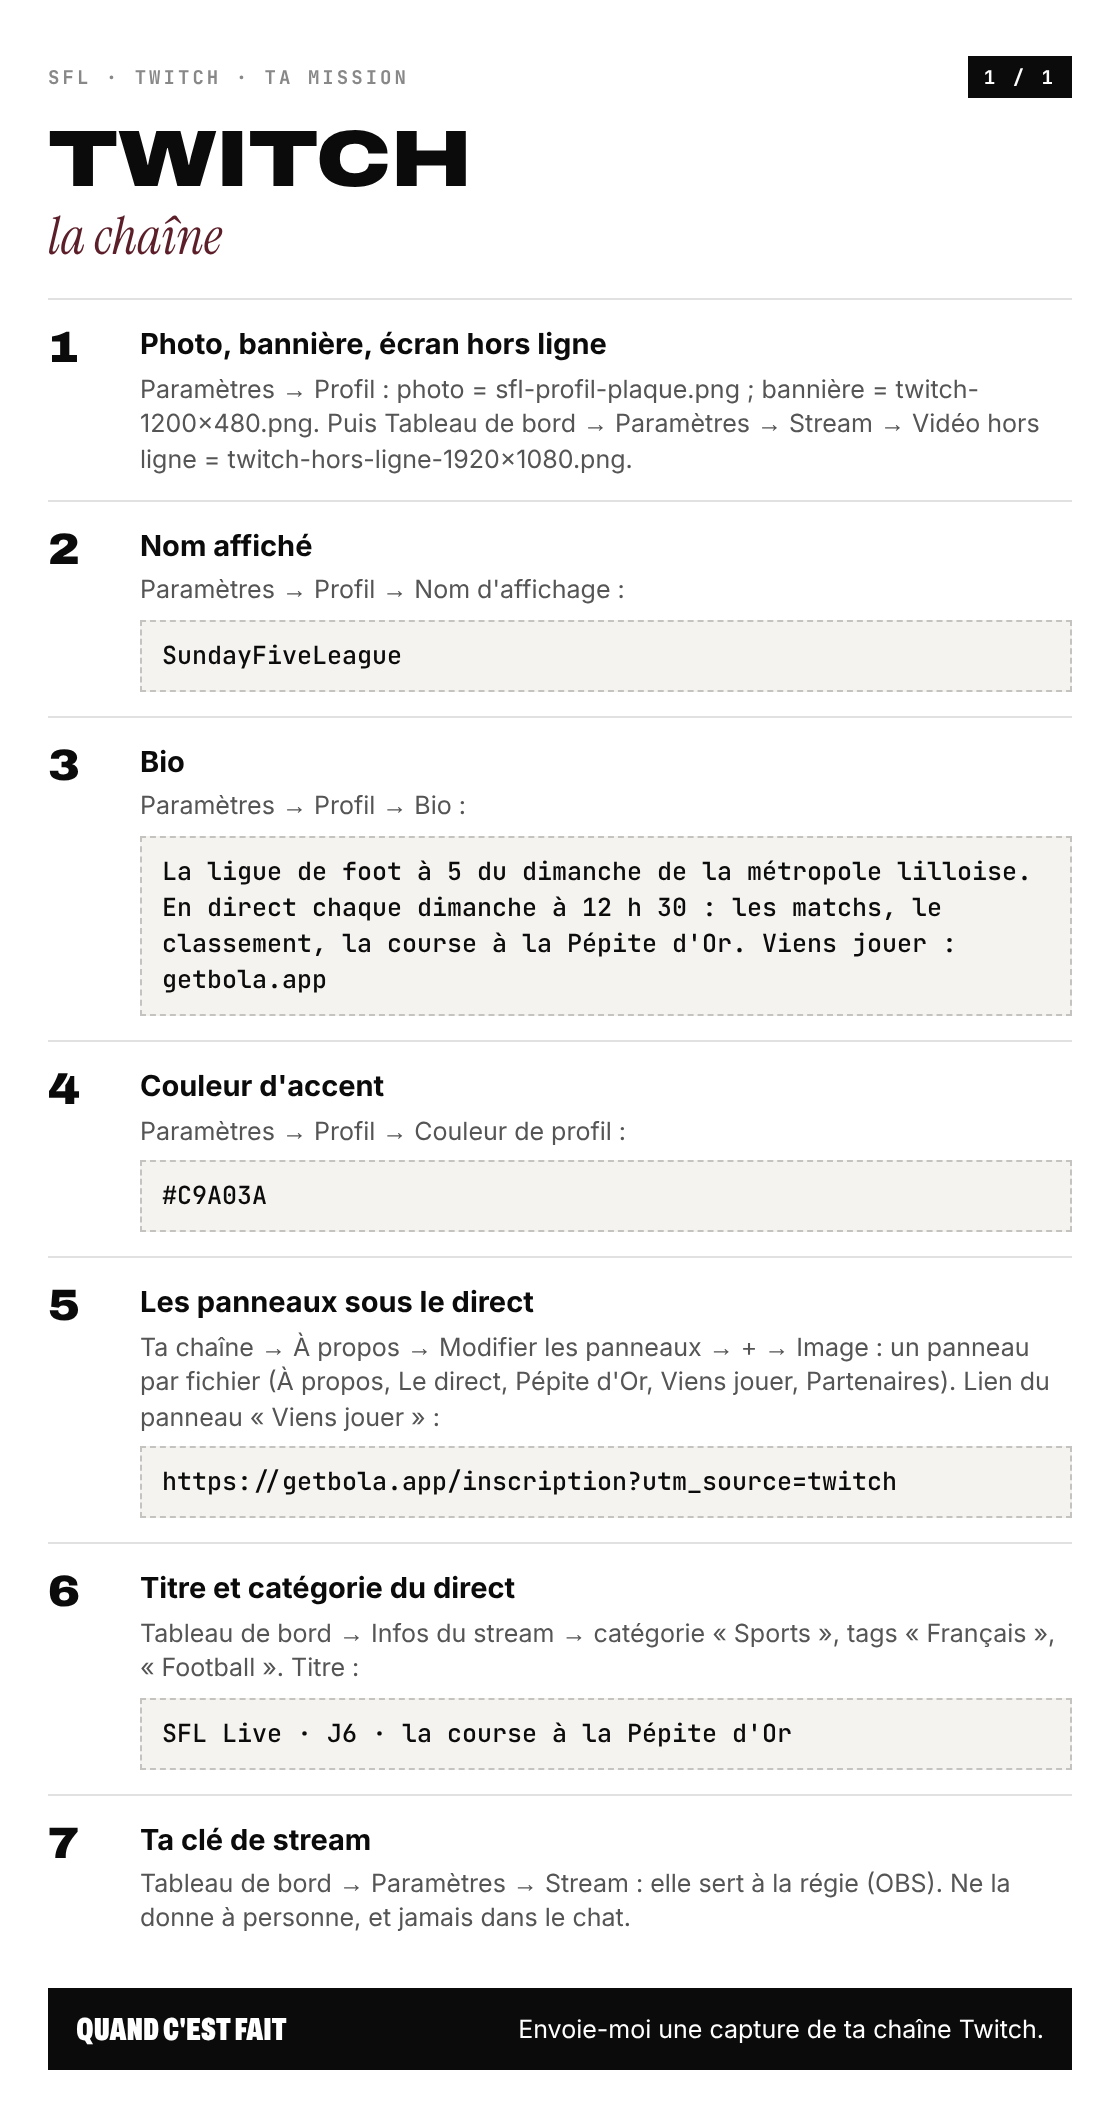
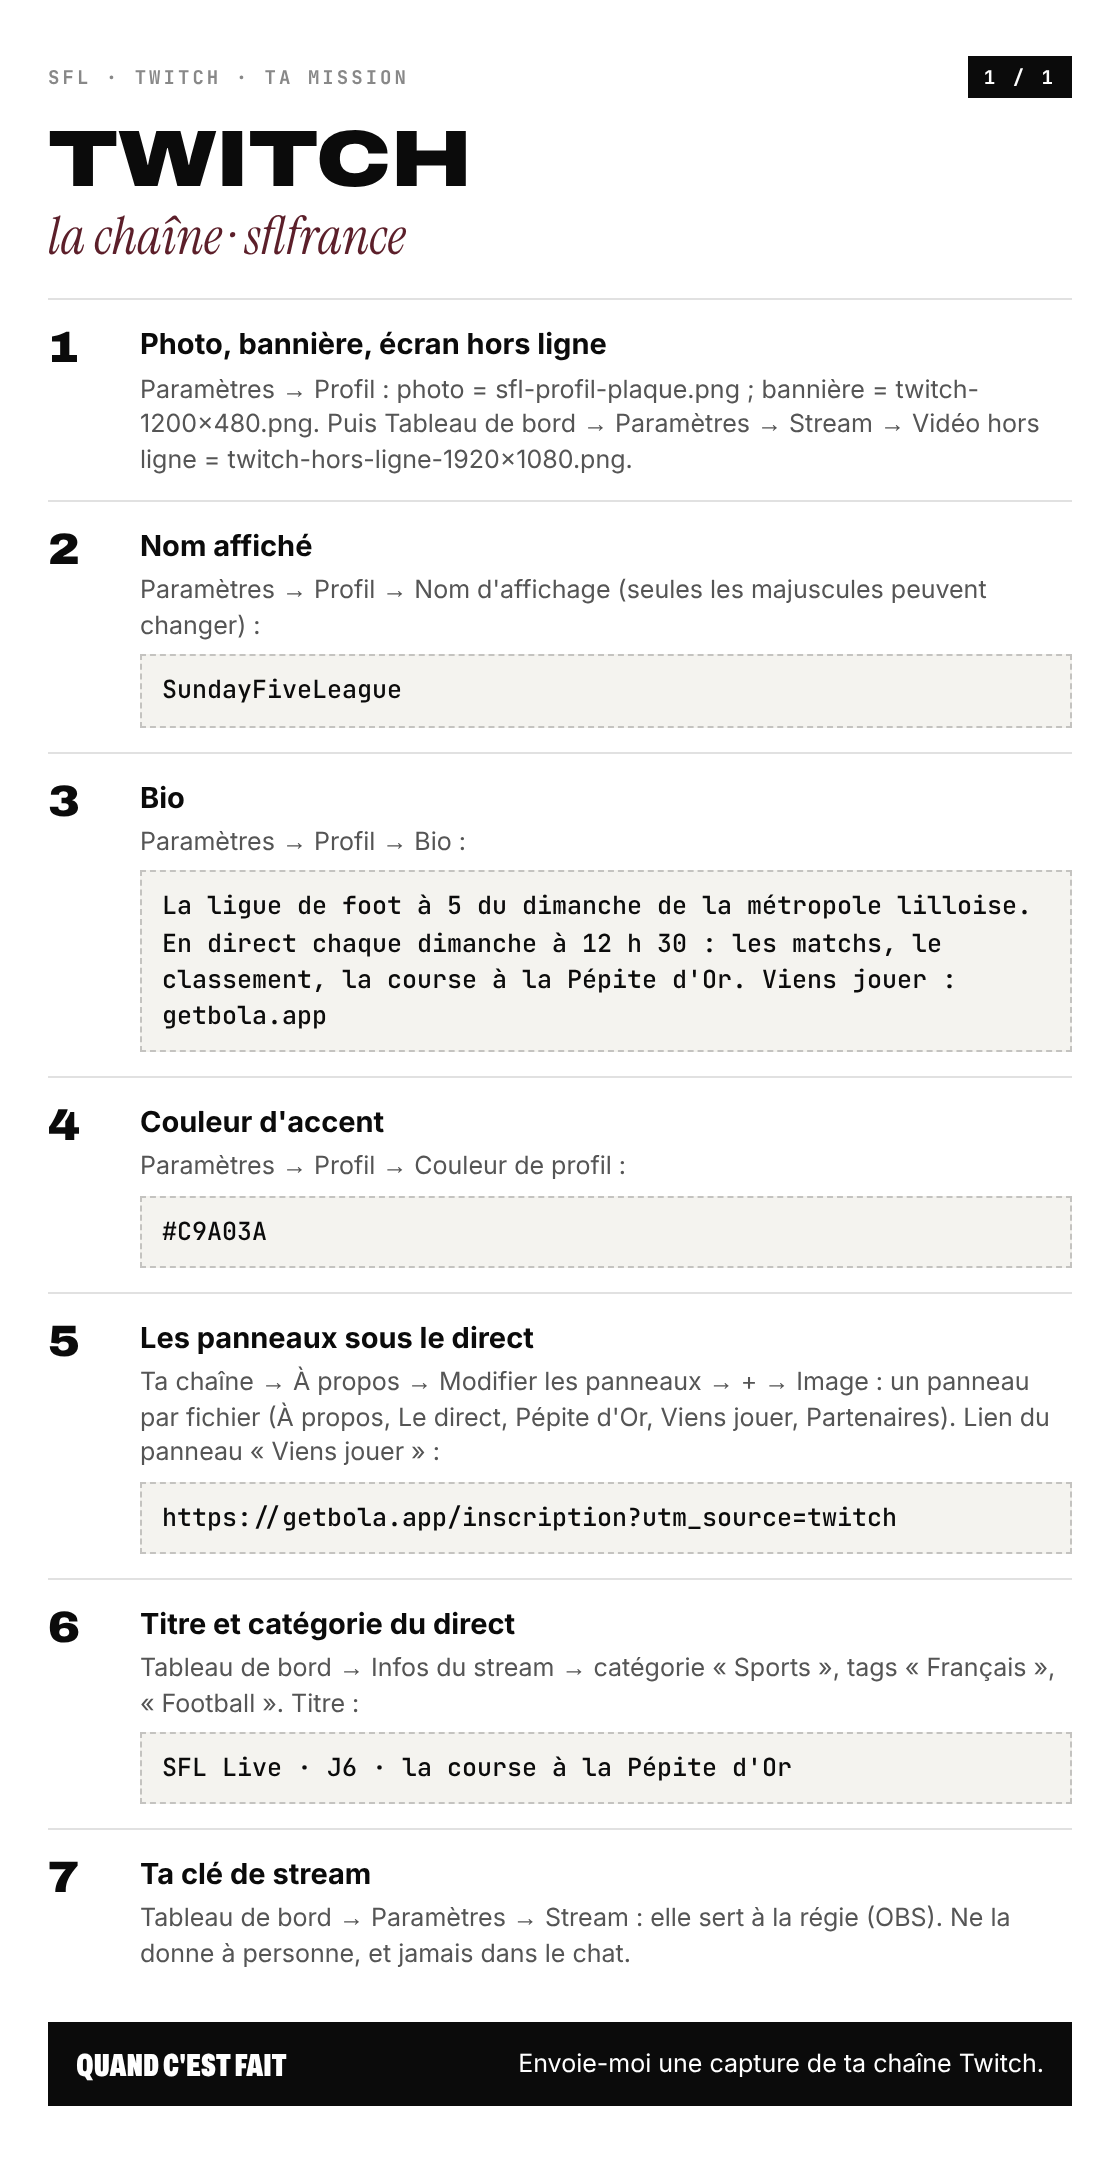
YouTube @SFLfr et Twitch sflfrance : missions mises à jour
Claude-Session: https://claude.ai/code/session_01T2vpMdLA1mAj6R84rgNPVD

diff --git a/reseaux/04-decisions.md b/reseaux/04-decisions.md
@@ -92,7 +92,7 @@ Quatorze décisions, triées par urgence. Pour chacune : la question, ma recomma
 
 ## D2. Quel nom pour les comptes ?
 
-**Créé (12/11)** : Instagram `@sundayfiveleague`. TikTok, YouTube et Twitch : à confirmer.
+**Créés** : Instagram `@sundayfiveleague` (12/11), YouTube `@SFLfr` et Twitch `sflfrance` (15/11). TikTok : à confirmer.
 
 **Ta décision (01/11) : en attente.** Tu crées toi-même les comptes et tu me donnes les noms retenus. Ma recommandation ne change pas.
 
